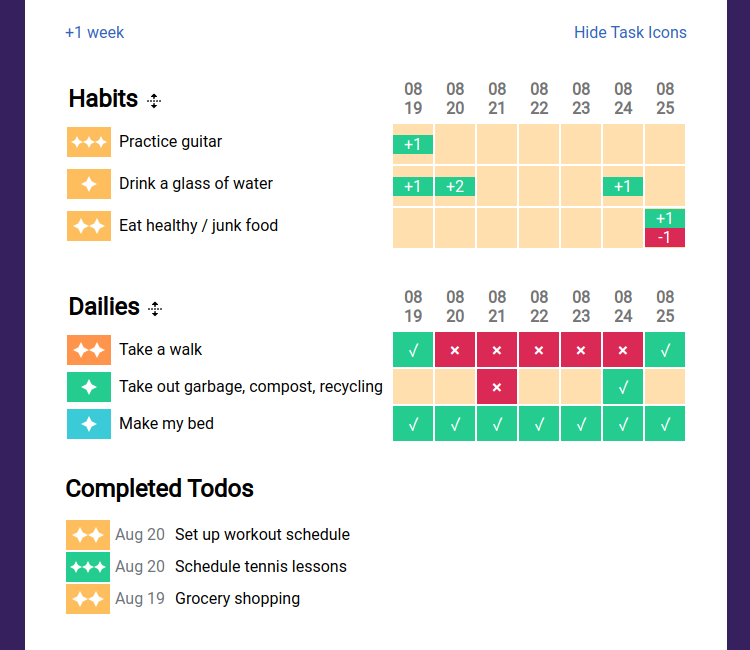
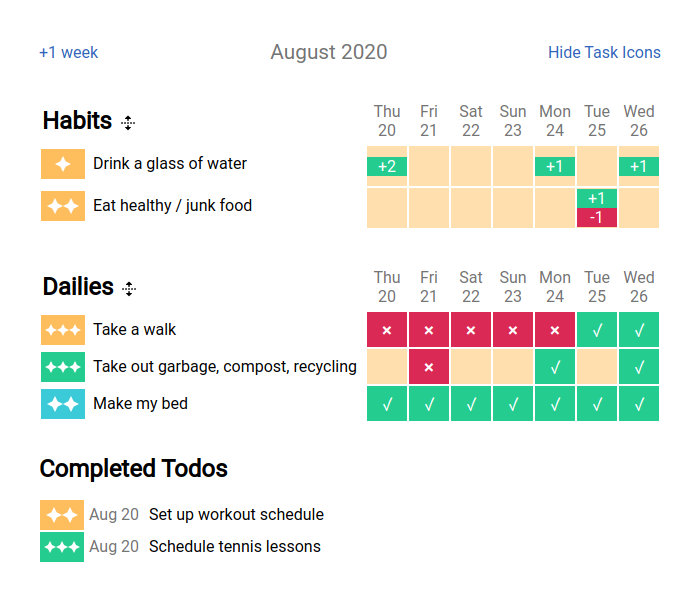
Move month to the top and show day of week
* Moved month and year to the top
 * Added better styling for headers

Changed region(s): [[0.0, 0.0, 1.0, 1.0], [0.39, 0.06, 0.57, 0.12]]

diff --git a/src/DailySummary.tsx b/src/DailySummary.tsx
@@ -1,51 +1,28 @@
 import React, { useContext, useState } from "react";
 import moment from "moment";
 import log from "loglevel";
-import { UnfoldIcon, FoldIcon } from "@primer/octicons-react";
 
 import { DATE_KEY_FORMAT } from "./App";
 import { Task } from "./HabiticaTypes";
 import { AppContext } from "./UserSummary";
 import { TaskIcon } from "./TaskIcon";
+import SummaryTableHeader from "./SummaryTableHeader";
 
 export interface DailySummaryProps {
   data: Task[];
 }
 
 export default function DailySummary(props: DailySummaryProps) {
-  const context = useContext(AppContext);
   const [showNoHistory, setShowNoHistory] = useState(false);
 
   return (
     <section className="dailys">
       <table>
-        <tr>
-          <th>
-            <div className="section-header">
-              <h2>Dailies</h2>
-              <div
-                role="button"
-                className="show-no-history clickable"
-                title="Show/Hide dailies with no data"
-                onClick={() => setShowNoHistory(!showNoHistory)}
-              >
-                {showNoHistory ? (
-                  <FoldIcon aria-hidden="true" />
-                ) : (
-                  <UnfoldIcon aria-hidden="true" />
-                )}
-              </div>
-            </div>
-          </th>
-          {context.dates.map((day) => (
-            <th>
-              <div className="date-heading">
-                <span>{day.format("MM")}</span>
-                <span>{day.format("DD")}</span>
-              </div>
-            </th>
-          ))}
-        </tr>
+        <SummaryTableHeader
+          title="Dailies"
+          setShowNoHistory={setShowNoHistory}
+          showNoHistory={showNoHistory}
+        />
         {props.data.map((daily) => (
           <Daily showNoHistory={showNoHistory} daily={daily} />
         ))}
@@ -91,10 +68,12 @@ export function Daily(props: { daily: Task; showNoHistory: boolean }) {
         if (!historyMap.has(taskUpdateTime.format(DATE_KEY_FORMAT))) {
           taskUpdateTime = taskUpdateTime.subtract(1, "day");
         } else {
-          log.debug(`Multiple daily completions on for ${text} on ${taskUpdateTime}`);
+          log.debug(
+            `Multiple daily completions on for ${text} on ${taskUpdateTime}`
+          );
         }
       }
-        const taskDate = taskUpdateTime.format(DATE_KEY_FORMAT);
+      const taskDate = taskUpdateTime.format(DATE_KEY_FORMAT);
       historyMap.set(taskDate, delta);
     }
   }

diff --git a/src/UserSummary.tsx b/src/UserSummary.tsx
@@ -183,12 +183,24 @@ function AppControls(props: {
   const context = useContext(AppContext);
   const showMore = () => props.setNumDaysToShow(props.numDaysToShow + 7);
   const showLess = () => props.setNumDaysToShow(props.numDaysToShow - 7);
+  const monthString = getMonthString(context.dates);
 
   return (
-    <div className="show-more-toggle">
-      <span role="button" className="link" onClick={showMore}>
-        +1 week
-      </span>
+    <div className="app-controls">
+      <div>
+        <span role="button" className="link" onClick={showMore}>
+          +1 week
+        </span>
+        {props.numDaysToShow > 7 ? (
+          <span>
+            <span> / </span>
+            <span role="button" className="link" onClick={showLess}>
+              -1 week
+            </span>
+          </span>
+        ) : null}
+      </div>
+      <div className="date-header">{monthString}</div>
       <span
         role="button"
         className="link"
@@ -197,17 +209,23 @@ function AppControls(props: {
       >
         {context.showTaskIcons ? "Hide" : "Show"} Task Icons
       </span>
-      {props.numDaysToShow > 7 ? (
-        <span role="button" className="link" onClick={showLess}>
-          -1 week
-        </span>
-      ) : null}
     </div>
   );
 }
 
+function getMonthString(dates: Moment[]): string {
+  const monthStart = dates[0];
+  const monthEnd = dates[dates.length - 1];
+  if (monthStart.month() === monthEnd.month()) {
+    return monthEnd.format("MMMM YYYY");
+  }
+  let startFormat = monthStart.year() === monthEnd.year() ? "MMM" : "MMM YYYY";
+  let endFormat = "MMM YYYY";
+  return [monthStart.format(startFormat), monthEnd.format(endFormat)].join("–");
+}
+
 /** Get all the dates to show.  */
-function getDateArray(numDays: number) {
+function getDateArray(numDays: number): Moment[] {
   return Array(numDays)
     .fill(0)
     .map((_, i) => i + 1)

diff --git a/src/HabitSummary.tsx b/src/HabitSummary.tsx
@@ -6,46 +6,23 @@ import { Task } from "./HabiticaTypes";
 import { DATE_KEY_FORMAT } from "./App";
 import { AppContext } from "./UserSummary";
 import { TaskIcon } from "./TaskIcon";
-import { FoldIcon, UnfoldIcon } from "@primer/octicons-react";
+import SummaryTableHeader from "./SummaryTableHeader";
 
 export interface HabitSummaryProps {
   data: Task[];
 }
 
 export default function HabitSummary(props: HabitSummaryProps) {
-  const context = useContext(AppContext);
   const [showNoHistory, setShowNoHistory] = useState(false);
 
   return (
     <section className="habits">
       <table>
-        <tr>
-          <th>
-            <div className="section-header">
-              <h2>Habits</h2>
-              <div
-                role="button"
-                className="show-no-history clickable"
-                title="Show/Hide habits with no data"
-                onClick={() => setShowNoHistory(!showNoHistory)}
-              >
-                {showNoHistory ? (
-                  <FoldIcon aria-hidden="true" />
-                ) : (
-                  <UnfoldIcon aria-hidden="true" />
-                )}
-              </div>
-            </div>
-          </th>
-          {context.dates.map((day) => (
-            <th>
-              <div className="date-heading">
-                <span>{day.format("MM")}</span>
-                <span>{day.format("DD")}</span>
-              </div>
-            </th>
-          ))}
-        </tr>
+        <SummaryTableHeader
+          title="Habits"
+          setShowNoHistory={setShowNoHistory}
+          showNoHistory={showNoHistory}
+        />
         {props.data.map((habit) => (
           <Habit showNoHistory={showNoHistory} habit={habit} />
         ))}

diff --git a/src/SummaryTableHeader.tsx b/src/SummaryTableHeader.tsx
@@ -1,0 +1,43 @@
+import React, { useContext } from "react";
+import { UnfoldIcon, FoldIcon } from "@primer/octicons-react";
+
+import { AppContext } from "./UserSummary";
+
+export default function SummaryTableHeader(props: {
+  title: string;
+  setShowNoHistory: (val: boolean) => void;
+  showNoHistory: boolean;
+}) {
+  const context = useContext(AppContext);
+  return (
+    <tr>
+      <th>
+        <div className="section-header">
+          <div className="section-header-title">
+            <h2>{props.title}</h2>
+            <div
+              role="button"
+              className="show-no-history clickable"
+              title="Show/Hide dailies with no data"
+              onClick={() => props.setShowNoHistory(!props.showNoHistory)}
+            >
+              {props.showNoHistory ? (
+                <FoldIcon aria-hidden="true" />
+              ) : (
+                <UnfoldIcon aria-hidden="true" />
+              )}
+            </div>
+          </div>
+        </div>
+      </th>
+      {context.dates.map((day) => (
+        <th>
+          <div className="date date-heading">
+            <span>{day.format("ddd")}</span>
+            <span>{day.format("DD")}</span>
+          </div>
+        </th>
+      ))}
+    </tr>
+  );
+}

diff --git a/src/App.css b/src/App.css
@@ -39,26 +39,36 @@
   width: 80px;
 }
 
+.app-controls {
+  display: flex;
+  justify-content: space-between;
+  align-items: center;
+}
+
+
+.app-controls .date-header {
+  display: flex;
+  flex-direction: column;
+  margin-left: 12px;
+  font-size: 1.3em;
+  color: #757575;
+}
+
 /* Summary Section */
 section {
   margin-top: 32px;
 }
 
-.section-header {
+.section-header, .section-header-title {
   display: flex;
   align-items: center;
-}
-
-.show-more-toggle {
-  display: flex;
-  justify-content: space-between;
 }
 
 .show-no-history  {
   margin-left: 8px;
 }
 
-h2 {
+section h2 {
   margin-top: 8px;
   margin-bottom: 8px;
 }
@@ -76,14 +86,17 @@ th {
   width: 100%;
 }
 
+.date {
+  color: #757575;
+}
+
 .date-heading {
   display: flex;
   flex-direction: column;
   align-items: center;
   justify-content: flex-end;
-  font-weight: bold;
+  font-weight: normal;
   font-size: medium;
-  color: #757575;
 }
 
 .link {

diff --git a/src/TodoSummary.tsx b/src/TodoSummary.tsx
@@ -1,7 +1,7 @@
 import React, { useContext } from "react";
 import moment from "moment";
 
-import './TodoSummary.css';
+import "./TodoSummary.css";
 import { Task } from "./HabiticaTypes";
 import { AppContext } from "./UserSummary";
 import { TaskIcon } from "./TaskIcon";
@@ -32,13 +32,8 @@ function Todo(props: { todo: Task }) {
   return (
     <li className="todo-row">
       <TaskIcon task={props.todo} />
-      <span className="todo-date">{completionDate}</span>
-      <div className="todo-content">
-        <div className="todo-text">{props.todo.text}</div>
-        {props.todo!.notes && (
-          <div className="todo-notes">{props.todo!.notes}</div>
-        )}
-      </div>
+      <span className="todo-date date">{completionDate}</span>
+      <div className="todo-content">{props.todo.text}</div>
     </li>
   );
 }

diff --git a/src/TodoSummary.css b/src/TodoSummary.css
@@ -26,6 +26,5 @@
 }
 
 .todo-date {
-  color: #70757a;
   padding: 5px;
 }
